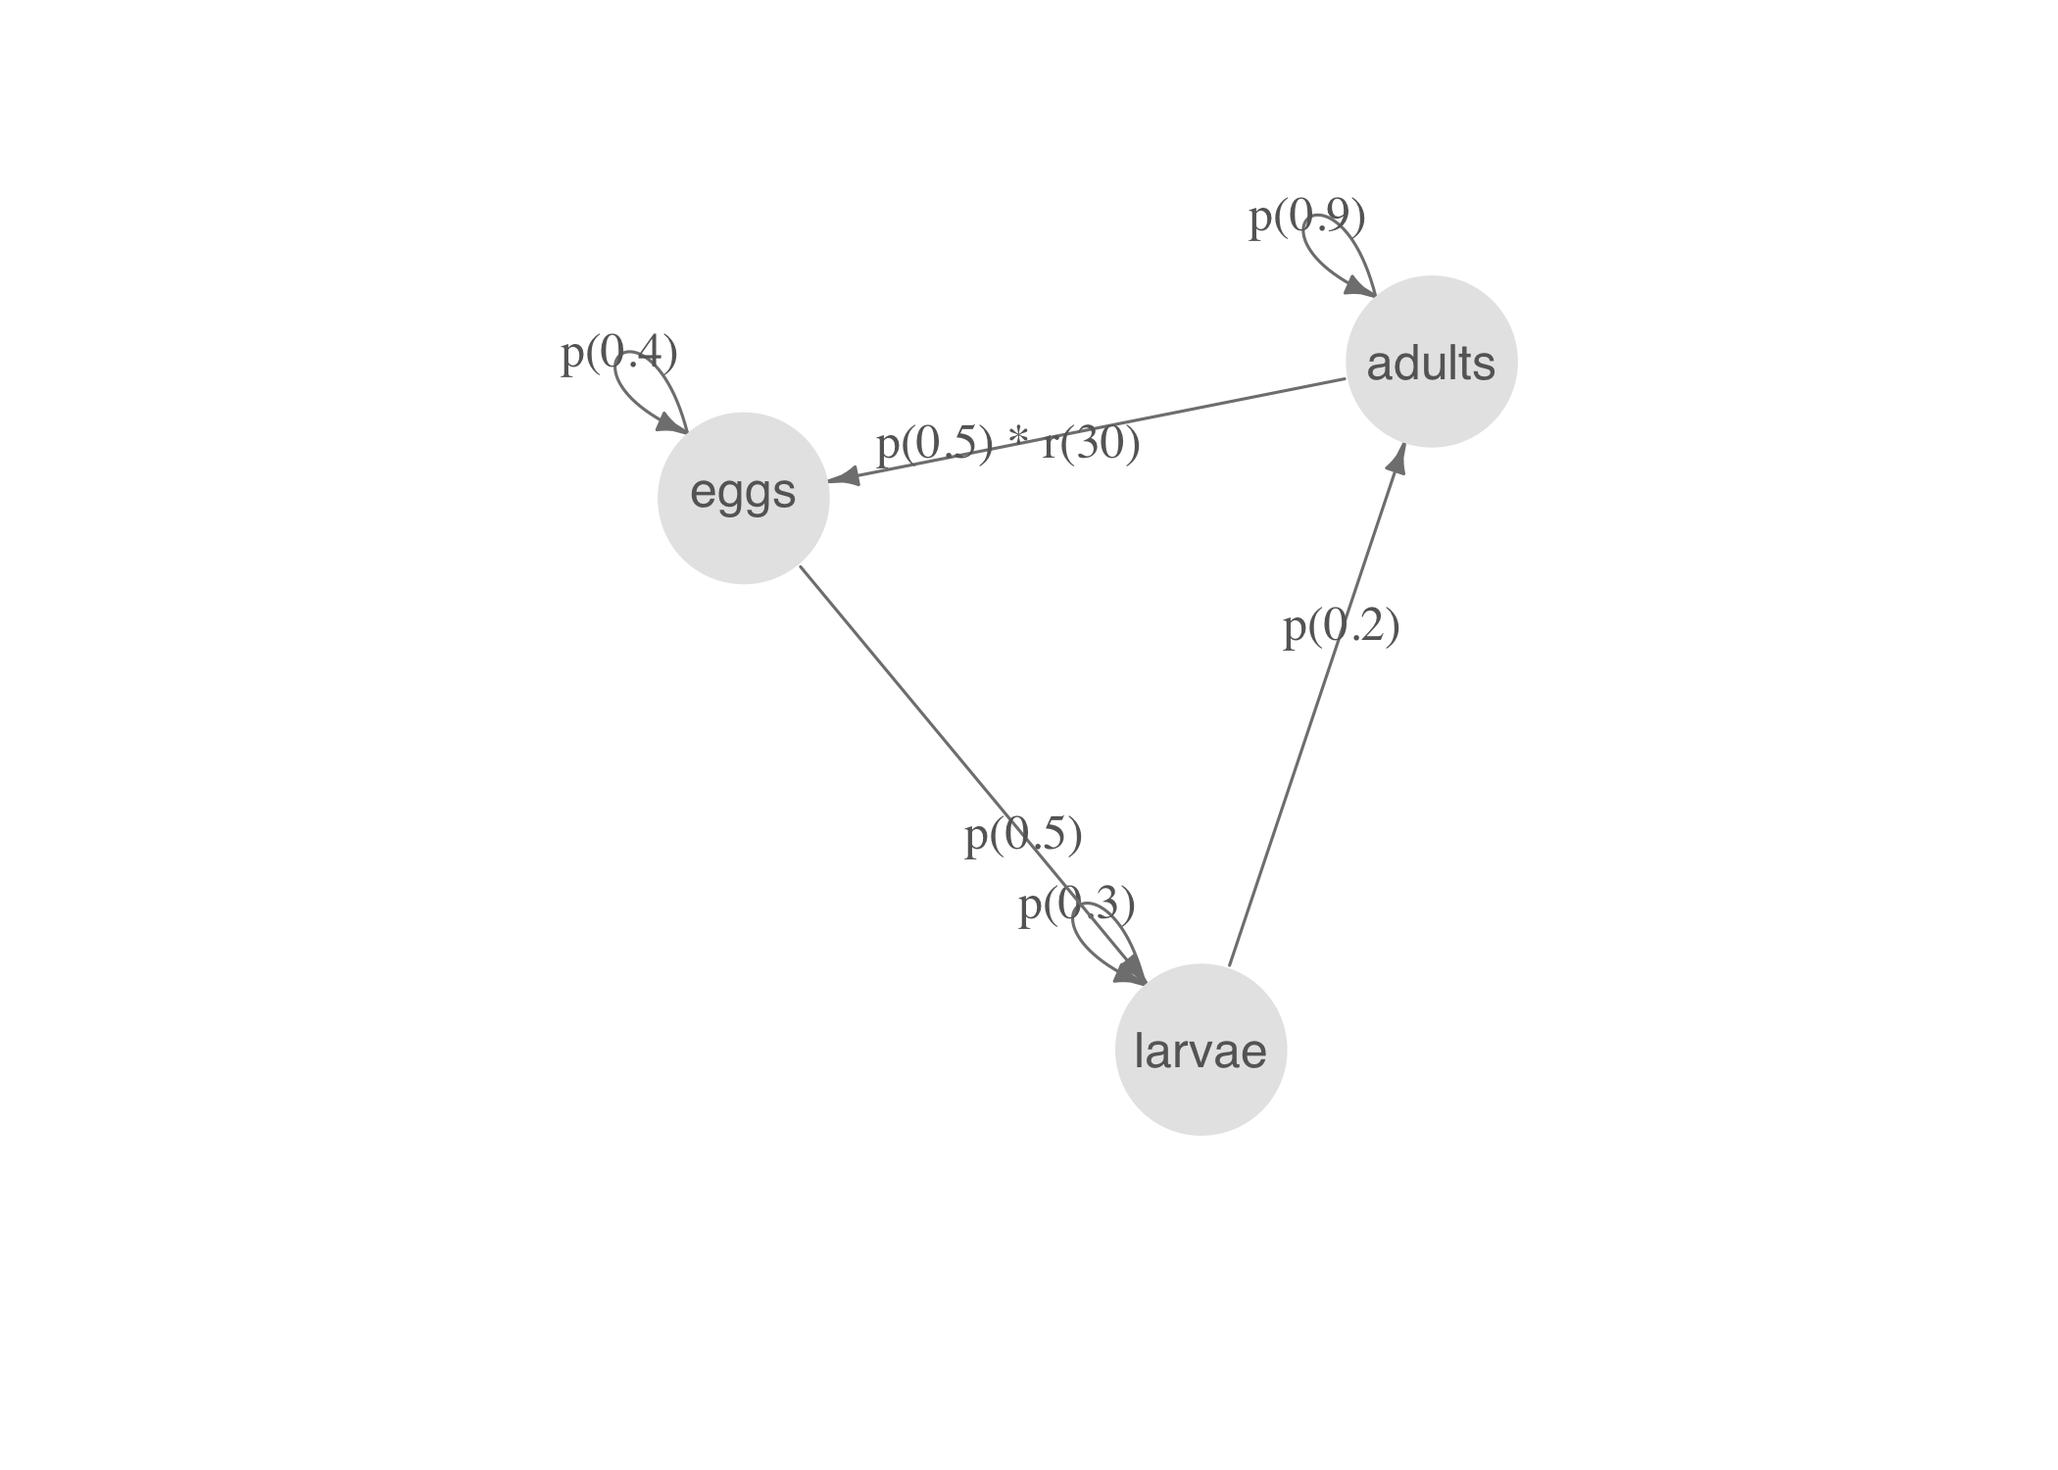
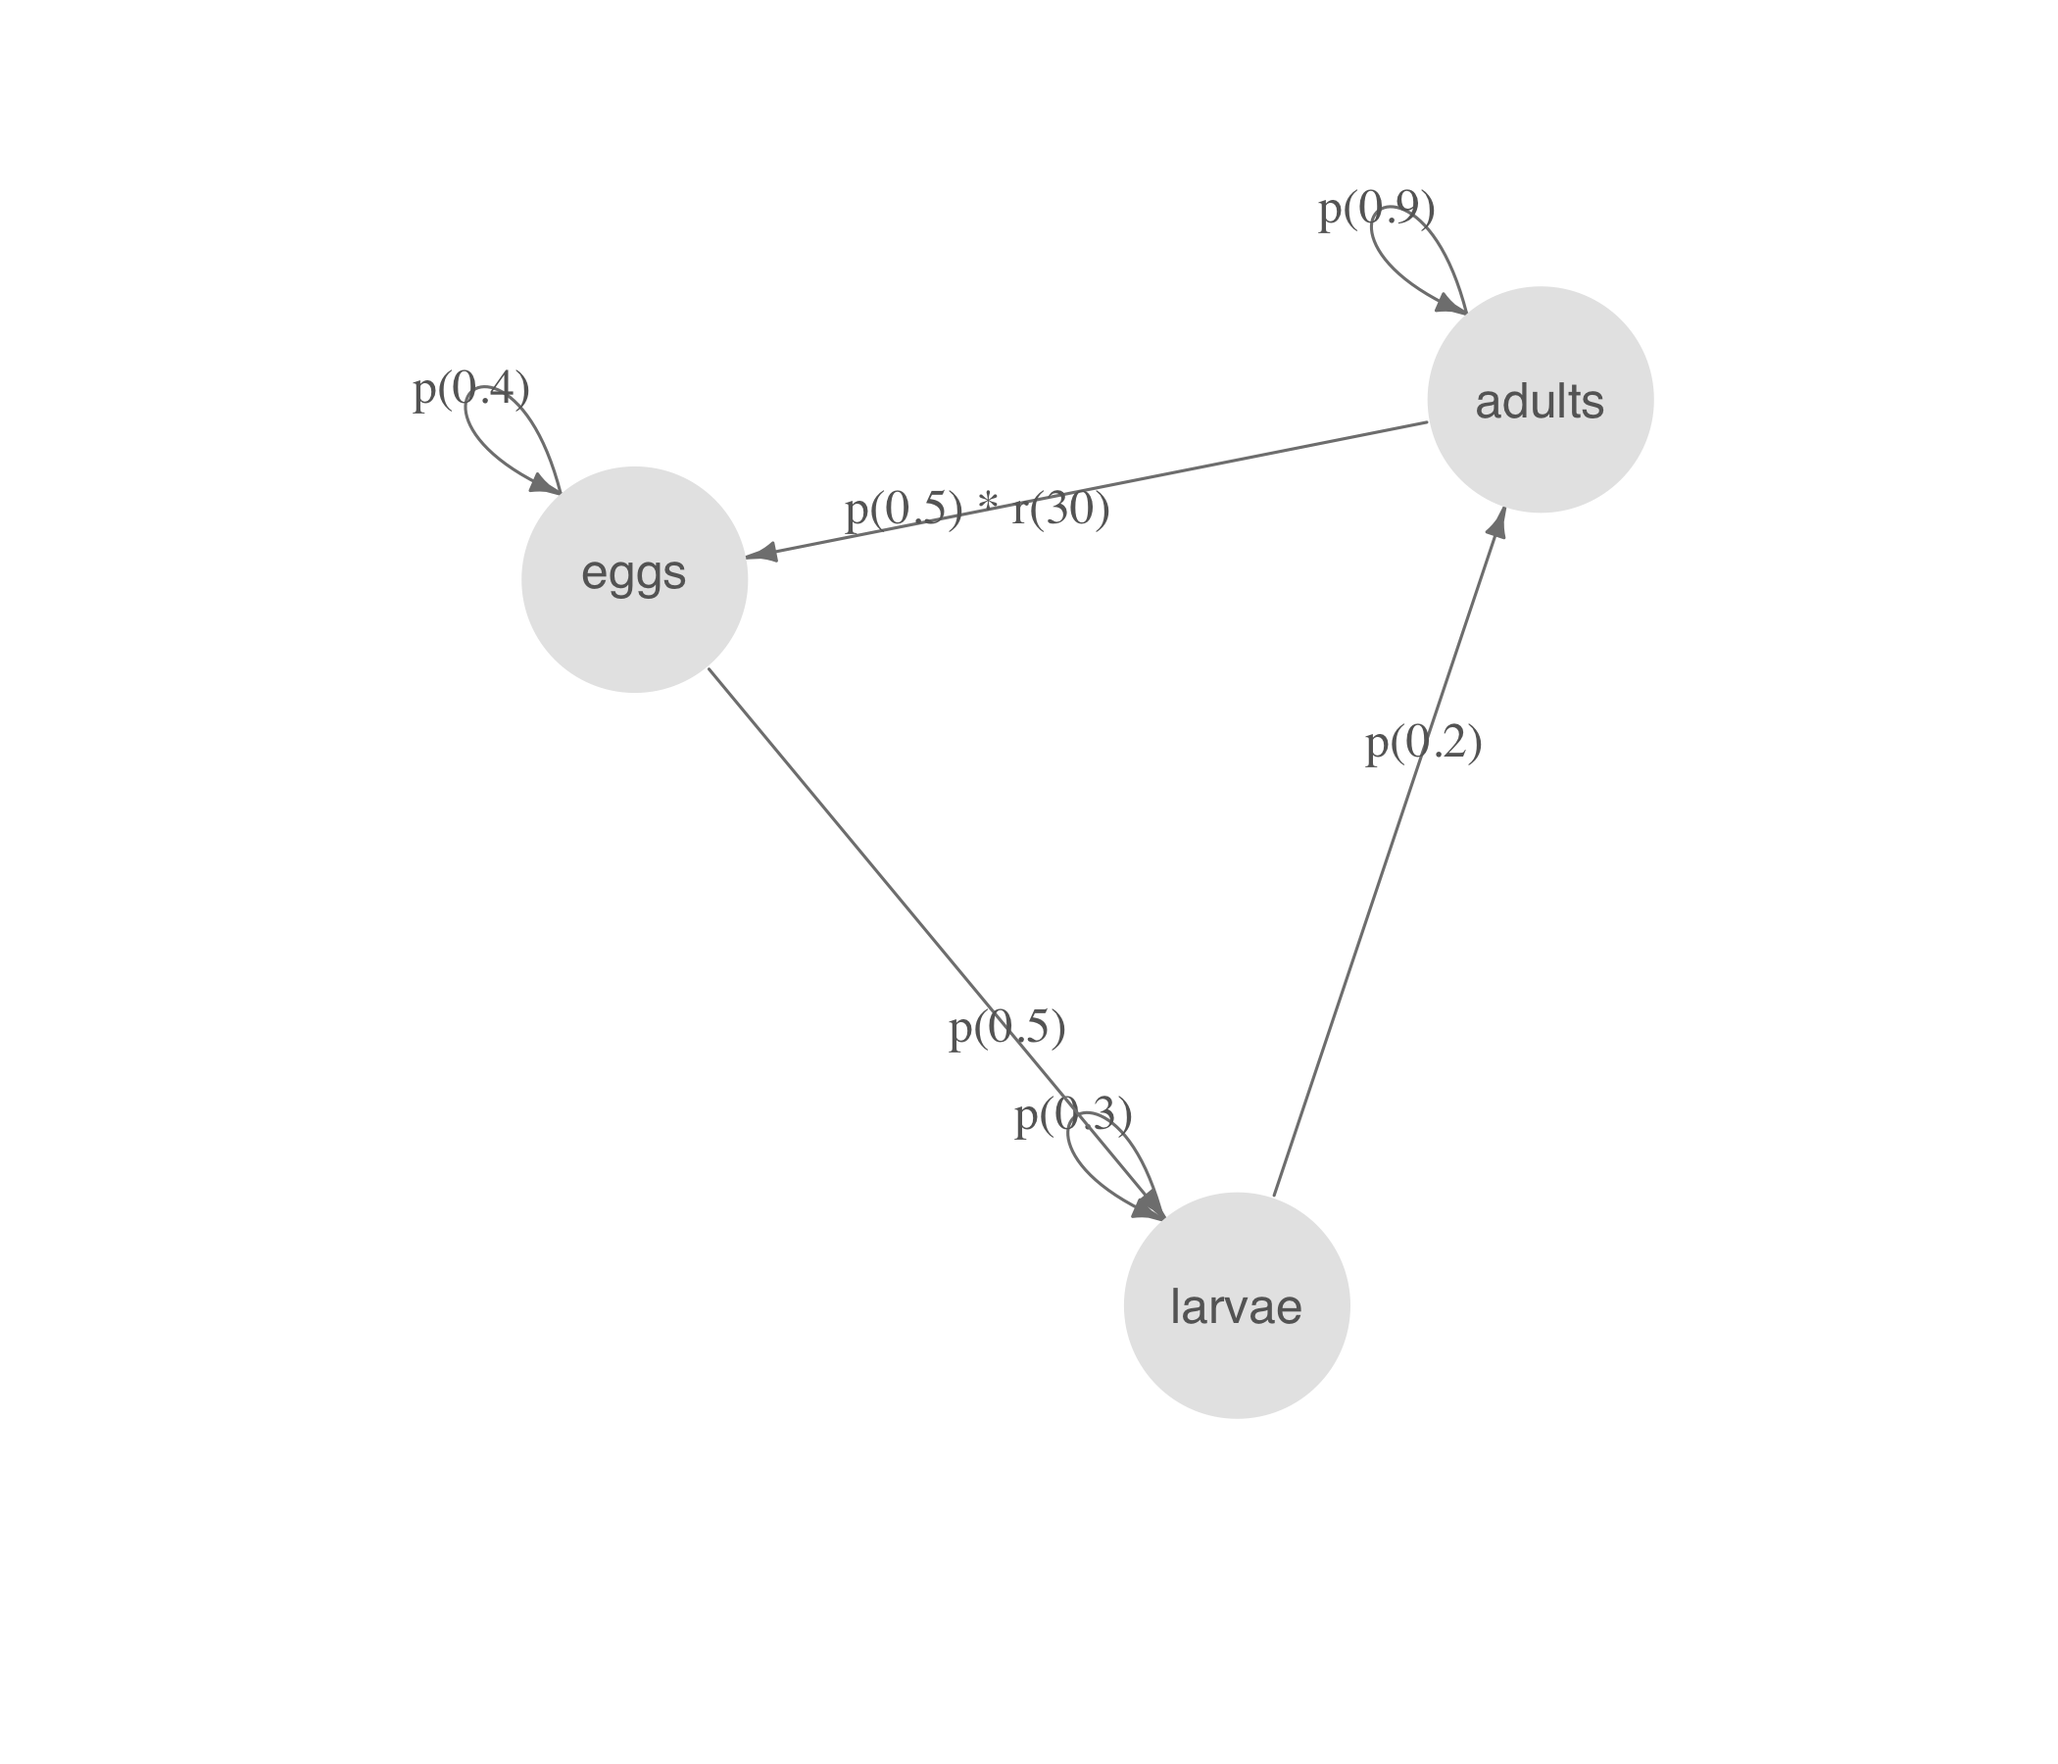
shrinking figures slightly

diff --git a/readme.md b/readme.md
@@ -126,7 +126,7 @@ sim <- simulation(dynamic = all,
            replicates = 30)
 
 # plot abundance of the three life stages
-par(mfrow = c(3, 1))
+par(mfrow = c(1, 3))
 plot(sim)
 ```
 
@@ -164,7 +164,7 @@ sim_dd <- simulation(dynamic = all_dd,
            replicates = 100)
 
 # and plot it
-par(mfrow = c(3, 1))
+par(mfrow = c(1, 3))
 plot(sim_dd)
 ```
 
@@ -179,7 +179,7 @@ proj_dd <- projection(dynamic = all_dd,
            timesteps = 100)
 
 # and plot it
-par(mfrow = c(3, 1))
+par(mfrow = c(1, 3))
 plot(proj_dd)
 ```
 
